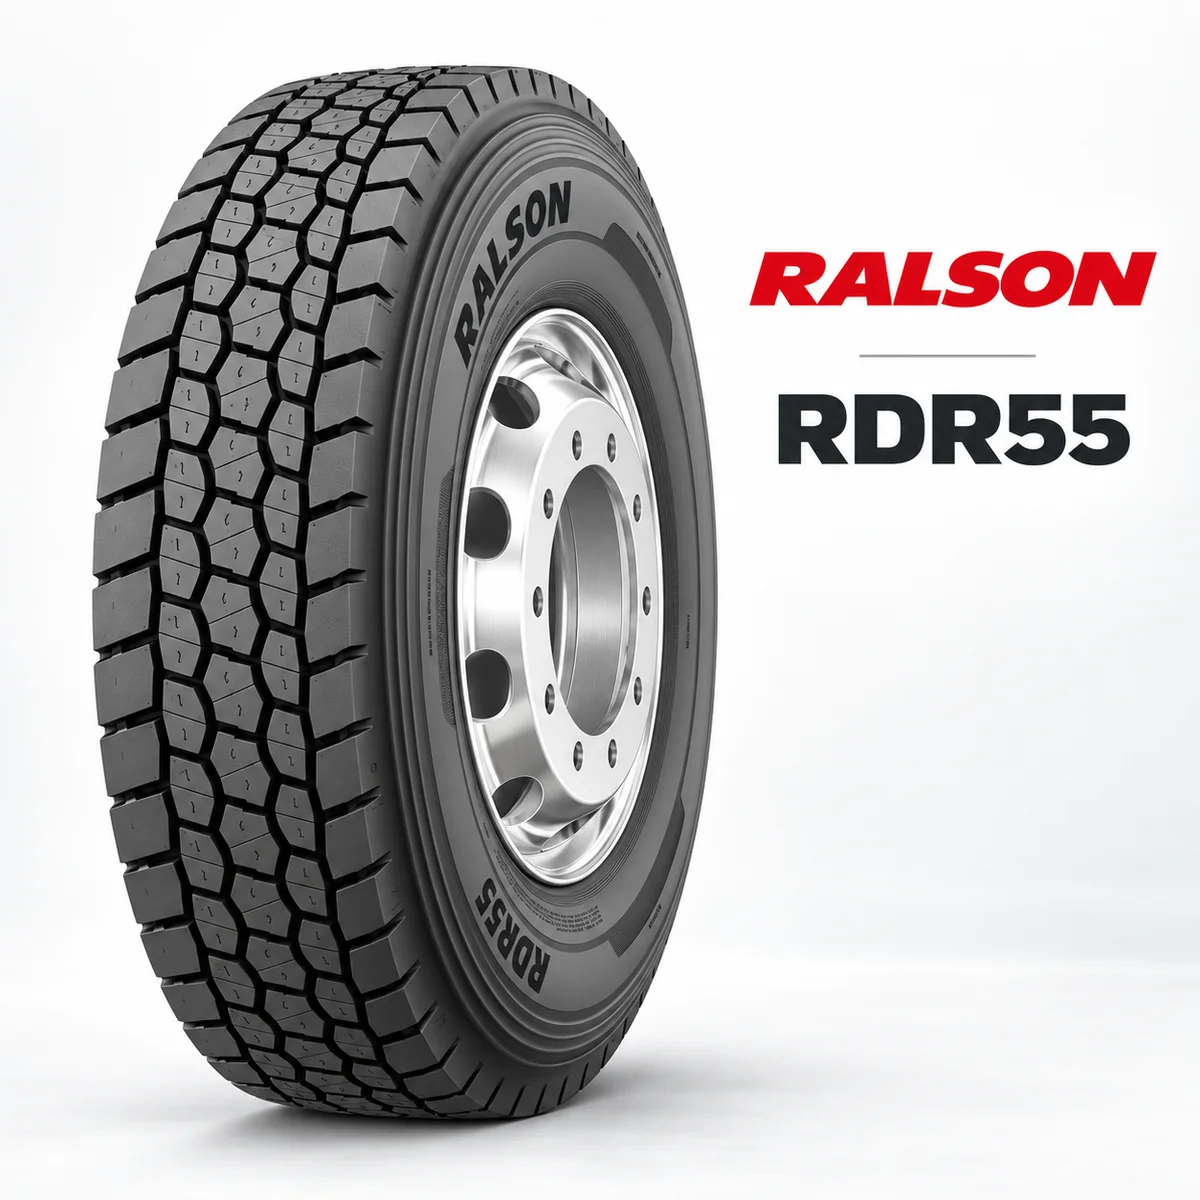
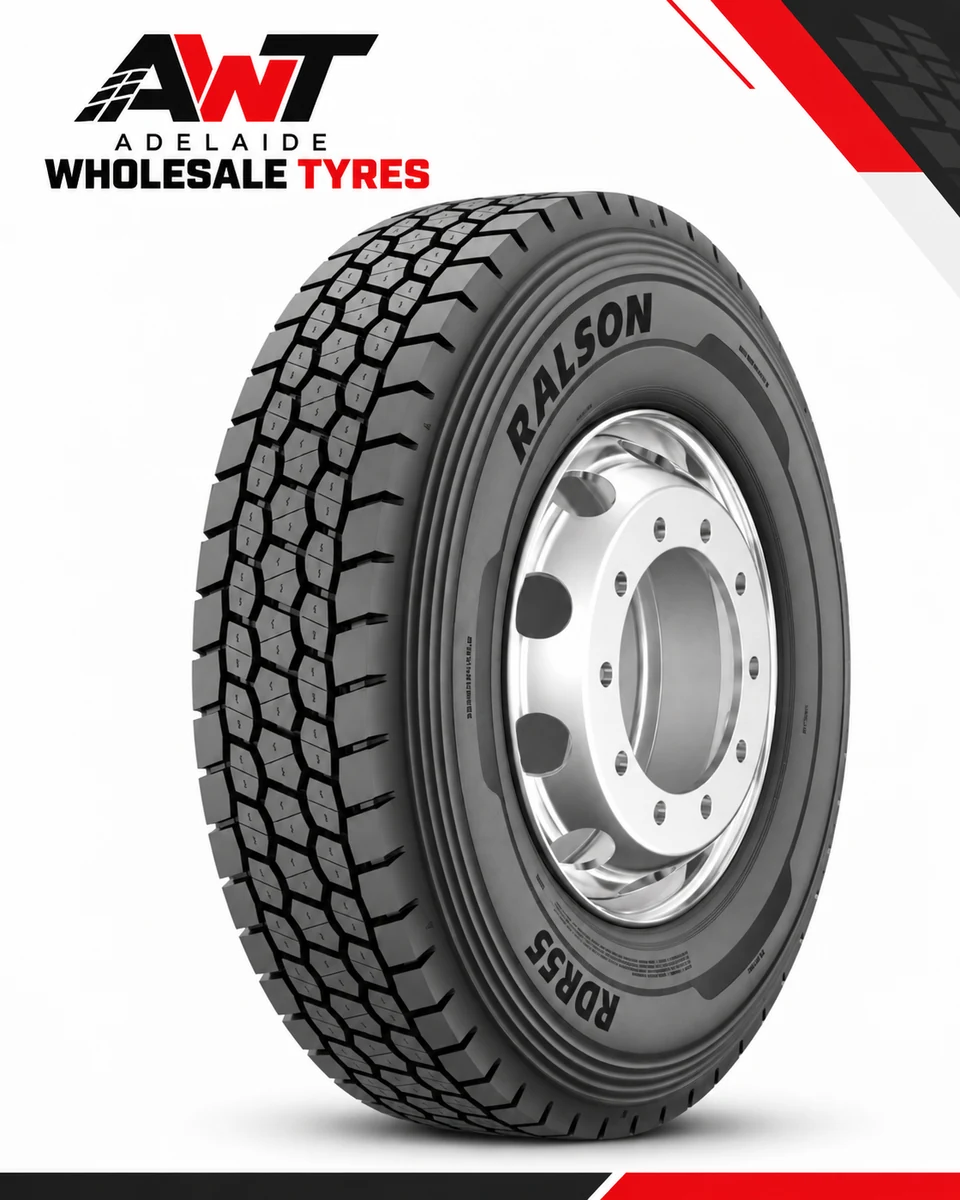
feat: replace Ralson RDR75/RMR61/RDR55 images with owner-supplied Ralson material
RDR75 and RMR61 now use the Ralson "Features & Benefits" spec-sheet posters
rasterised from the owner-supplied PDFs (confidential banners cropped out).
RDR55 uses the AWT-branded card built from the Ralson RDR55 render. Every
size variant keeps sharing its pattern image, so the catalogue is unchanged.

Also held (not wired): ralson-rmr51.webp (no RMR51 SKU yet) and
ralson-rdr55-spec-sheet.webp (single image slot per SKU).

Provenance recorded in docs/product-image-manifest.json and docs/image-audit.md.

Claude-Session: https://claude.ai/code/session_0169tUBYJZ2MwwqydmYYNBaZ

diff --git a/docs/image-audit.md b/docs/image-audit.md
@@ -7,6 +7,20 @@ The first version of this audit made two mistakes, both corrected below:
 1. It overwrote two SKUs' **genuine manufacturer-sourced images** (Ralson RMR61 295/80R22.5 and Greforce G-PILOT X1 295/80R22.5 — both originally sourced from the brands' own official product pages) with the owner-supplied AI renders. Those two files have been **restored** from git history and the catalogue/manifest reverted. AI renders should only fill a gap where no real asset existed — never replace one that did.
 2. It said "no SKU exists for Ralson RAC55 295/80R22.5" without checking `docs/catalogue-verification.md`, which had already researched this exact question and found the real Ralson RAC55 **does not come in 295/80R22.5 at all** — it's a construction/waste-haul block tyre sold only in 315/80R22.5, 11R22.5, 11R24.5, 385/65R22.5 and 425/65R22.5. The historical stock list's "RAC55 295/80R22.5, qty 38" row is itself the unresolved record that triggered that research (it's flagged `withheld` in the reconciliation, not confirmed) — it is not proof the combination is real, and an AI render repeating the same label isn't independent evidence either.
 
+## Fifth pass (2026-09-14) — genuine Ralson material replaces three AI renders
+
+The owner supplied Ralson-sourced files for the three shared Ralson pattern images:
+
+- `ralson-rdr55.webp` — Ralson RDR55 tyre-on-rim product render (`rdr55.jpg.jpeg`, 628×776). Sidewall reads "RALSON / RDR55".
+  - **Superseded later on 2026-09-14**: the owner then supplied an AWT-branded ChatGPT card built from that render (`ChatGPT Image Sep 14, 2026, 03_11_20 PM (1).png`, 960×1200 WebP) and it now replaces the raw Ralson render as `ralson-rdr55.webp`; status back to `owner-approved-ai-render`. A matching AWT-branded RDR55 spec card is held as `ralson-rdr55-spec-sheet.webp` (900×1600, unwired — single image slot per SKU).
+- `ralson-rdr75.webp` and `ralson-rmr61.webp` — Ralson "Features & Benefits" spec-sheet posters rasterised at 300 dpi from `rdr75.pdf` / `rmr61.pdf`, cropped to the poster (the PDF's "CONFIDENTIAL @ 2025 RALSON TYRES LIMITED" header/footer banners are excluded), 689×1600. These are datasheets, not product photos — the owner chose them over the AI renders because they are real manufacturer collateral. The pattern-only tread render inside each poster carries A–E callout labels so it could not be cropped out cleanly.
+- `ralson-rmr51.webp` — AWT-branded ChatGPT card built from the Ralson RMR51 render (`ChatGPT Image Sep 14, 2026, 03_11_21 PM (2).png`, 960×1200; replaced the raw `rmr51.jpg.jpeg` conversion later the same day). **Not wired to any product**: the catalogue has no RMR51 SKU (it has RMR61). Held in `public/images/tyres/` for when an RMR51 product (price, stock, inventory UUID) is added.
+- An RDR55 "Features & Benefits" poster (`WhatsApp Image 2026-09-14 at 11.13.54 AM.jpeg`, 273×660) was also supplied but not used — the clean RDR55 render above is the product image and the catalogue has a single `image` slot per SKU.
+
+All nine RDR75 / RMR61 / RDR55 size variants keep sharing their pattern image, so `lib/catalogue.ts` is unchanged. Manifest statuses: `owner-supplied-manufacturer-asset` (RDR55) and `owner-supplied-manufacturer-spec-sheet` (RDR75, RMR61).
+
+**Tally after this pass: 24 of 25 SKUs have an image** (2 genuine supplier assets + 2 patterns / 8 SKUs on Ralson spec-sheet posters + 14 owner-approved AI renders); Jumbo SS398 still intentionally has none.
+
 ## Fourth pass (2026-09-09, later still) — final 4 renders, and SS398 resolved
 
 The owner supplied the last 4 requested images (Opartner CP989 265/70R19.5, Haulmax ATT420 295/80R22.5, Ralson RDR75 235/75R17.5, Haulmax ATT101 275/70R22.5), same AWT-branded card style as the third pass. All 4 matched exactly — no discrepancies, no suffixes, no ambiguity — and were integrated.
@@ -37,19 +51,19 @@ The owner supplied 15 more images directly in `Downloads\` (not the `tyres\` sub
 
 | Brand | Pattern | Size | SKU | Website image path | Status | Action needed |
 | --- | --- | --- | --- | --- | --- | --- |
-| Ralson | RDR75 | 265/70R19.5 | ralson-rdr75-26570r195 | `/images/tyres/ralson-rdr75.webp` | **owner-approved AI render** | None — label reads "RDR75 265/70R19.5". |
-| Ralson | RMR61 | 265/70R19.5 | ralson-rmr61-26570r195 | `/images/tyres/ralson-rmr61.webp` | **owner-approved AI render** | None — label reads "RMR61 265/70R19.5". |
-| Ralson | RMR61 | 295/80R22.5 | ralson-rmr61-29580r225 | `/images/tyres/ralson-rmr61.webp` | **owner-approved AI render** | None — pattern card reads "RALSON RMR61" (replaced the earlier ralsontires.com photo on 2026-09-14; the homepage hero uses its own `/images/hero/hero-truck-tyre.webp`). |
-| Ralson | RDR75 | 295/80R22.5 | ralson-rdr75-29580r225 | `/images/tyres/ralson-rdr75.webp` | **owner-approved AI render** | None — label reads "RDR75 295/80R22.5". |
-| Ralson | RMR61 | 385/65R22.5 | ralson-rmr61-38565r225 | `/images/tyres/ralson-rmr61.webp` | **owner-approved AI render** | None — label reads "RMR61 385/65R22.5". |
+| Ralson | RDR75 | 265/70R19.5 | ralson-rdr75-26570r195 | `/images/tyres/ralson-rdr75.webp` | **manufacturer spec sheet** | None — Ralson 'RDR75 Features & Benefits' poster rasterised from the owner-supplied PDF on 2026-09-14 (replaced the AI render). |
+| Ralson | RMR61 | 265/70R19.5 | ralson-rmr61-26570r195 | `/images/tyres/ralson-rmr61.webp` | **manufacturer spec sheet** | None — Ralson 'RMR61 Features & Benefits' poster rasterised from the owner-supplied PDF on 2026-09-14 (replaced the AI render). |
+| Ralson | RMR61 | 295/80R22.5 | ralson-rmr61-29580r225 | `/images/tyres/ralson-rmr61.webp` | **manufacturer spec sheet** | None — Ralson 'RMR61 Features & Benefits' poster rasterised from the owner-supplied PDF on 2026-09-14 (replaced the AI render). |
+| Ralson | RDR75 | 295/80R22.5 | ralson-rdr75-29580r225 | `/images/tyres/ralson-rdr75.webp` | **manufacturer spec sheet** | None — Ralson 'RDR75 Features & Benefits' poster rasterised from the owner-supplied PDF on 2026-09-14 (replaced the AI render). |
+| Ralson | RMR61 | 385/65R22.5 | ralson-rmr61-38565r225 | `/images/tyres/ralson-rmr61.webp` | **manufacturer spec sheet** | None — Ralson 'RMR61 Features & Benefits' poster rasterised from the owner-supplied PDF on 2026-09-14 (replaced the AI render). |
 | Ralson | RTR71 | 11R22.5 | ralson-rtr71-11r225 | `/images/tyres/ralson-rtr71-11r22-5.webp` | **owner-approved AI render** | None — label reads "RTR71 11R22.5". |
 | Ralson | RDR52 | 11R22.5 | ralson-rdr52-11r225 | `/images/tyres/ralson-rdr52-11r22-5.webp` | **owner-approved AI render** | None — label reads "RDR52 11R22.5". |
-| Ralson | RDR55 | 11R22.5 | ralson-rdr55-11r225 | `/images/tyres/ralson-rdr55.webp` | **owner-approved AI render** | None — label reads "RDR55 11R22.5". |
+| Ralson | RDR55 | 11R22.5 | ralson-rdr55-11r225 | `/images/tyres/ralson-rdr55.webp` | **owner-approved AI render** | None — AWT-branded card built from the Ralson RDR55 render, supplied by the owner 2026-09-14 (second update that day); sidewall reads 'RALSON RDR55'. |
 | Ralson | RDC66 | 11R22.5 | ralson-rdc66-11r225 | `/images/tyres/ralson-rdc66-11r22-5.webp` | **owner-approved AI render** | None — label reads "RDC66 11R22.5". |
 | Ralson | RAC55 | 11R22.5 | ralson-rac55-11r225 | `/images/tyres/ralson-rac55-11r22-5.webp` | **owner-approved AI render** | None — label reads "RAC55 11R22.5" (the correct, confirmed-real size — see `docs/catalogue-verification.md` #4). |
-| Ralson | RDR75 | 235/75R17.5 | ralson-rdr75-23575r175 | `/images/tyres/ralson-rdr75.webp` | **owner-approved AI render** | None — label reads "RDR75 235/75R17.5". |
-| Ralson | RMR61 | 235/75R17.5 | ralson-rmr61-23575r175 | `/images/tyres/ralson-rmr61.webp` | **owner-approved AI render** | None — label reads "RMR61 235/75R17.5". |
-| Ralson | RMR61 | 275/70R22.5 | ralson-rmr61-27570r225 | `/images/tyres/ralson-rmr61.webp` | **owner-approved AI render** | None — label reads "RMR61 275/70R22.5". |
+| Ralson | RDR75 | 235/75R17.5 | ralson-rdr75-23575r175 | `/images/tyres/ralson-rdr75.webp` | **manufacturer spec sheet** | None — Ralson 'RDR75 Features & Benefits' poster rasterised from the owner-supplied PDF on 2026-09-14 (replaced the AI render). |
+| Ralson | RMR61 | 235/75R17.5 | ralson-rmr61-23575r175 | `/images/tyres/ralson-rmr61.webp` | **manufacturer spec sheet** | None — Ralson 'RMR61 Features & Benefits' poster rasterised from the owner-supplied PDF on 2026-09-14 (replaced the AI render). |
+| Ralson | RMR61 | 275/70R22.5 | ralson-rmr61-27570r225 | `/images/tyres/ralson-rmr61.webp` | **manufacturer spec sheet** | None — Ralson 'RMR61 Features & Benefits' poster rasterised from the owner-supplied PDF on 2026-09-14 (replaced the AI render). |
 | Greforce | HD02 | 11R22.5 | greforce-hd02-11r225 | `/images/tyres/greforce-hd02-11r22-5.webp` | **owner-approved AI render** | None — label reads "HD02 11R22.5". |
 | Greforce | GR881W | 11R22.5 | greforce-gr881w-11r225 | `/images/tyres/greforce-gr881w-11r22-5.webp` | **owner-approved AI render** | None — label reads "GR881W 11R22.5". |
 | Greforce | GRD1919 | 11R22.5 | greforce-grd1919-11r225 | `/images/tyres/greforce-grd1919-11r22-5.webp` | **owner-approved AI render** | None — label reads "GRD1919 11R22.5". |
